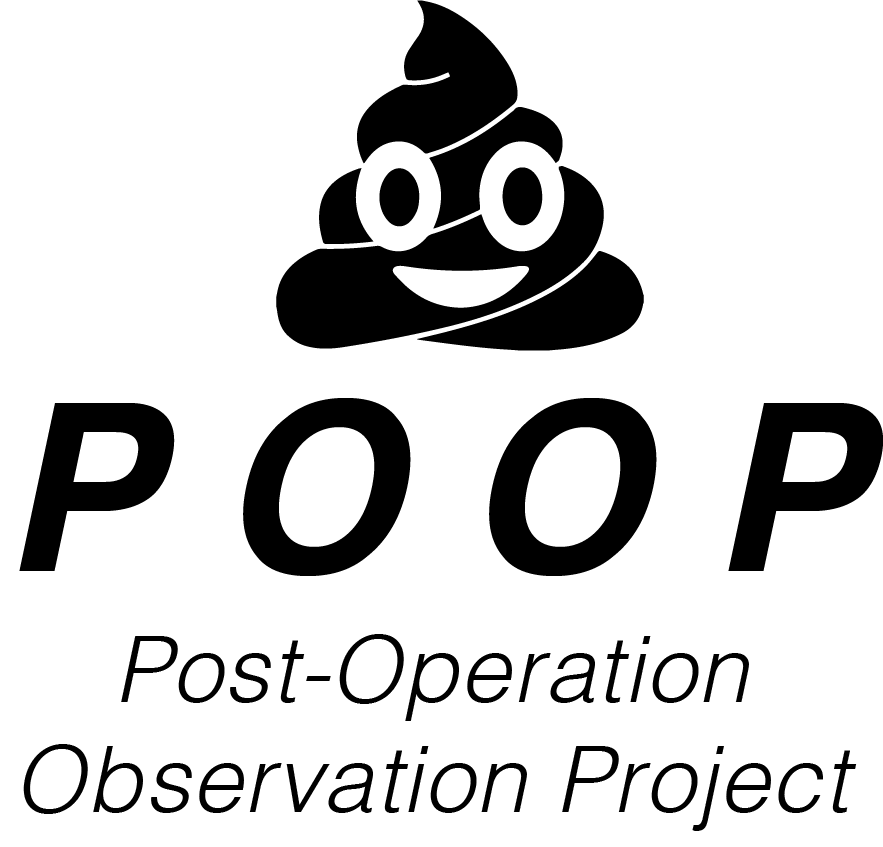
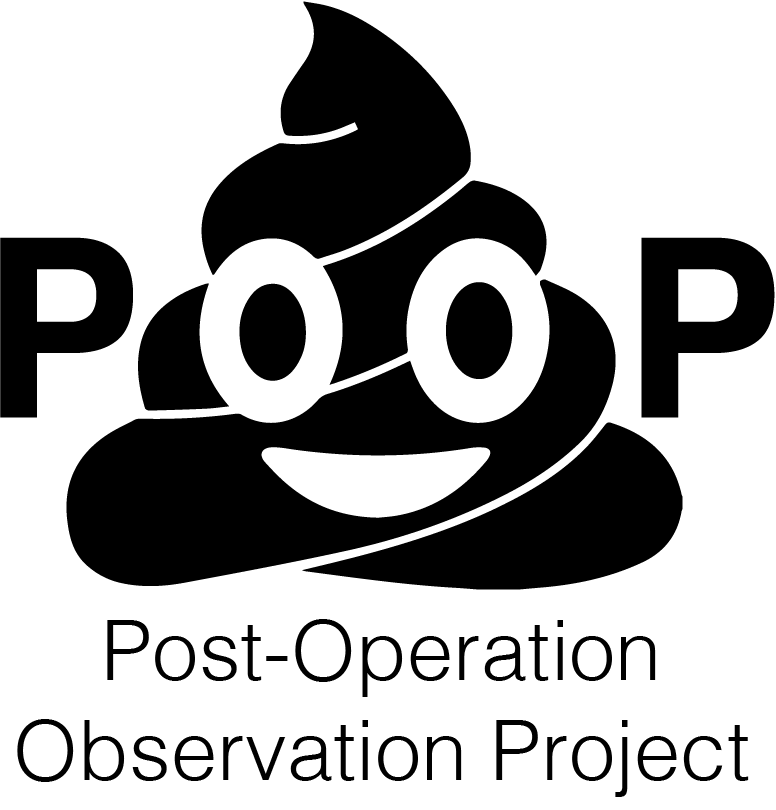
styling

diff --git a/frontend/src/components/Form.js b/frontend/src/components/Form.js
@@ -122,7 +122,7 @@ console.log("typeof bristol: ", typeof bristol)
           <div>
             <div className="formQuestion">
               <label>
-                Date of Bowel Movement:{" "}
+                Date of Bowel Movement:
                 <input
                   type="date"
                   name="BMdate"
@@ -149,12 +149,7 @@ console.log("typeof bristol: ", typeof bristol)
                         onChange={(e) => {
                           setBristol(parseInt(e.target.value));
                         }}
-                      />{" "}
-                      I did not have a bowel movement today.
-                      {/* <img
-                        src="../images/img_bristol_3.jpg"
-                        alt="Type 3: A sausage shape with cracks in the surface"
-                      /> */}
+                      />I did not have a bowel movement today.
                     </label>
                   </li>
                   <hr/>
@@ -170,7 +165,7 @@ console.log("typeof bristol: ", typeof bristol)
                         onChange={(e) => {
                           setBristol(parseInt(e.target.value));
                         }}
-                      />{" "}Type 1: Separate hard lumps
+                      />Type 1<br/>Separate hard lumps
                       <img
                         src="../images/img_bristol_1.jpg"
                         alt="Type 1: Separate hard lumps"
@@ -188,8 +183,8 @@ console.log("typeof bristol: ", typeof bristol)
                         onChange={(e) => {
                           setBristol(parseInt(e.target.value));
                         }}
-                      />{" "}
-                      Type 2: Lumpy and sausage-like
+                      />
+                      Type 2<br/>Lumpy and sausage-like
                       <img
                         src="../images/img_bristol_2.jpg"
                         alt="Type 2: Lumpy and sausage-like"
@@ -209,8 +204,9 @@ console.log("typeof bristol: ", typeof bristol)
                         onChange={(e) => {
                           setBristol(parseInt(e.target.value));
                         }}
-                      />{" "}
-                      Type 3: A sausage shape with cracks in the surface
+                      />
+                      Type 3<br/>A sausage shape with cracks in<br/>
+                      the surface
                       <img
                         src="../images/img_bristol_3.jpg"
                         alt="Type 3: A sausage shape with cracks in the surface"
@@ -230,8 +226,8 @@ console.log("typeof bristol: ", typeof bristol)
                         onChange={(e) => {
                           setBristol(parseInt(e.target.value));
                         }}
-                      />{" "}
-                      Type 4: Like a smooth, soft sausage or snake
+                      />
+                      Type 4<br/>Like a smooth, soft sausage or snake
                       <img
                         src="../images/img_bristol_4.jpg"
                         alt="Type 4: Like a smooth, soft sausage or snake"
@@ -251,8 +247,8 @@ console.log("typeof bristol: ", typeof bristol)
                         onChange={(e) => {
                           setBristol(parseInt(e.target.value));
                         }}
-                      />{" "}
-                      Type 5: Soft blobs with clear-cut edges
+                      />
+                      Type 5<br/>Soft blobs with clear-cut edges
                       <img
                         src="../images/img_bristol_5.jpg"
                         alt="Type 5: Soft blobs with clear-cut edges"
@@ -272,8 +268,8 @@ console.log("typeof bristol: ", typeof bristol)
                         onChange={(e) => {
                           setBristol(parseInt(e.target.value));
                         }}
-                      />{" "}
-                      Type 6: Mushy consistency with ragged edges
+                      />
+                      Type 6<br/>Mushy consistency with ragged edges
                       <img
                         src="../images/img_bristol_6.jpg"
                         alt="Type 6: Mushy consistency with ragged edges"
@@ -294,8 +290,8 @@ console.log("typeof bristol: ", typeof bristol)
                         onChange={(e) => {
                           setBristol(parseInt(e.target.value));
                         }}
-                      />{" "}
-                      Type 7: Liquid consistency with no solid pieces
+                      />
+                      Type 7<br/>Liquid consistency with no solid pieces
                       <img
                         src="../images/img_bristol_7.jpg"
                         alt="Type 7: Liquid consistency with no solid pieces"
@@ -320,7 +316,7 @@ console.log("typeof bristol: ", typeof bristol)
                       onChange={(e) => {
                         setBlood(e.target.value === "yes" ? true : false);
                       }}
-                    />{" "}
+                    />
                     Yes
                   </li>
                   <li>
@@ -331,7 +327,7 @@ console.log("typeof bristol: ", typeof bristol)
                       onChange={(e) => {
                         setBlood(e.target.value === "no" ? false : true);
                       }}
-                    />{" "}
+                    />
                     No
                   </li>
                 </ul>
@@ -354,7 +350,7 @@ console.log("typeof bristol: ", typeof bristol)
                         setPain(parseInt(e.target.value));
                       }}
                     />
-                    {" "}
+                    
                     0 - No pain
                   </li>
                 
@@ -368,7 +364,7 @@ console.log("typeof bristol: ", typeof bristol)
                         setPain(parseInt(e.target.value));
                       }}
                     />
-                    {" "}
+                    
                     1
                   </li>
                   <li>
@@ -381,7 +377,7 @@ console.log("typeof bristol: ", typeof bristol)
                         setPain(parseInt(e.target.value));
                       }}
                     />
-                      {" "}
+                      
                     2 - Mild Pain
                   </li>
                   <li>
@@ -393,7 +389,7 @@ console.log("typeof bristol: ", typeof bristol)
                       onChange={(e) => {
                         setPain(parseInt(e.target.value));
                       }}
-                    />{" "}
+                    />
                     3
                   </li>
                   <li>
@@ -405,7 +401,7 @@ console.log("typeof bristol: ", typeof bristol)
                       onChange={(e) => {
                         setPain(parseInt(e.target.value));
                       }}
-                    />{" "}
+                    />
                     4 - Moderate Pain
                   </li>
                   <li>
@@ -417,7 +413,7 @@ console.log("typeof bristol: ", typeof bristol)
                       onChange={(e) => {
                         setPain(parseInt(e.target.value));
                       }}
-                    />{" "}
+                    />
                     5
                   </li>
                   <li>
@@ -429,7 +425,7 @@ console.log("typeof bristol: ", typeof bristol)
                       onChange={(e) => {
                         setPain(parseInt(e.target.value));
                       }}
-                    />{" "}
+                    />
                     6 - Severe Pain
                   </li>
                   <li>
@@ -441,7 +437,7 @@ console.log("typeof bristol: ", typeof bristol)
                       onChange={(e) => {
                         setPain(parseInt(e.target.value));
                       }}
-                    />{" "}
+                    />
                     7
                   </li>
                   <li>
@@ -453,7 +449,7 @@ console.log("typeof bristol: ", typeof bristol)
                       onChange={(e) => {
                         setPain(parseInt(e.target.value));
                       }}
-                    />{" "}
+                    />
                     8 - Very Severe Pain
                   </li>
                   <li>
@@ -465,7 +461,7 @@ console.log("typeof bristol: ", typeof bristol)
                       onChange={(e) => {
                         setPain(parseInt(e.target.value));
                       }}
-                    />{" "}
+                    />
                     9
                   </li>
                   <li>
@@ -477,7 +473,7 @@ console.log("typeof bristol: ", typeof bristol)
                       onChange={(e) => {
                         setPain(parseInt(e.target.value));
                       }}
-                    />{" "}
+                    />
                     10 - Worst Pain Possible
                   </li>
                 </ul>

diff --git a/frontend/src/App.css b/frontend/src/App.css
@@ -205,10 +205,15 @@ td {
 .formQuestion {
   margin: 0 0 .5rem 0;
   padding: 2rem;
-  /* background-color: white; */
-  background-color: rgb(225, 235, 241);
+  background-color: white;
+  /* background-color: rgb(6, 7, 7)41); */
   border-radius: 5px;
   box-shadow: 1px 1px 3px black;
+}
+
+.formQuestion img {
+  width: 100%;
+  max-width: 300px;
 }
 
 .formPage h1,
@@ -221,9 +226,13 @@ h3 {
   margin: 0.5em 0 0.5em 0;
 }
 
-.formPage img {
+/* .formPage img {
   width: 80%;
-  /* height: 125; */
+} */
+
+.formPage input {
+  margin-right: .75em;
+  margin-bottom: .75em;
 }
 
 #form {
@@ -292,7 +301,8 @@ h1, h2 {
 }
 
 #logo {
-  width: 20vw;
+  width: 30vw;
+  max-width: 125px;
   margin-top: 2em;
 }
 
